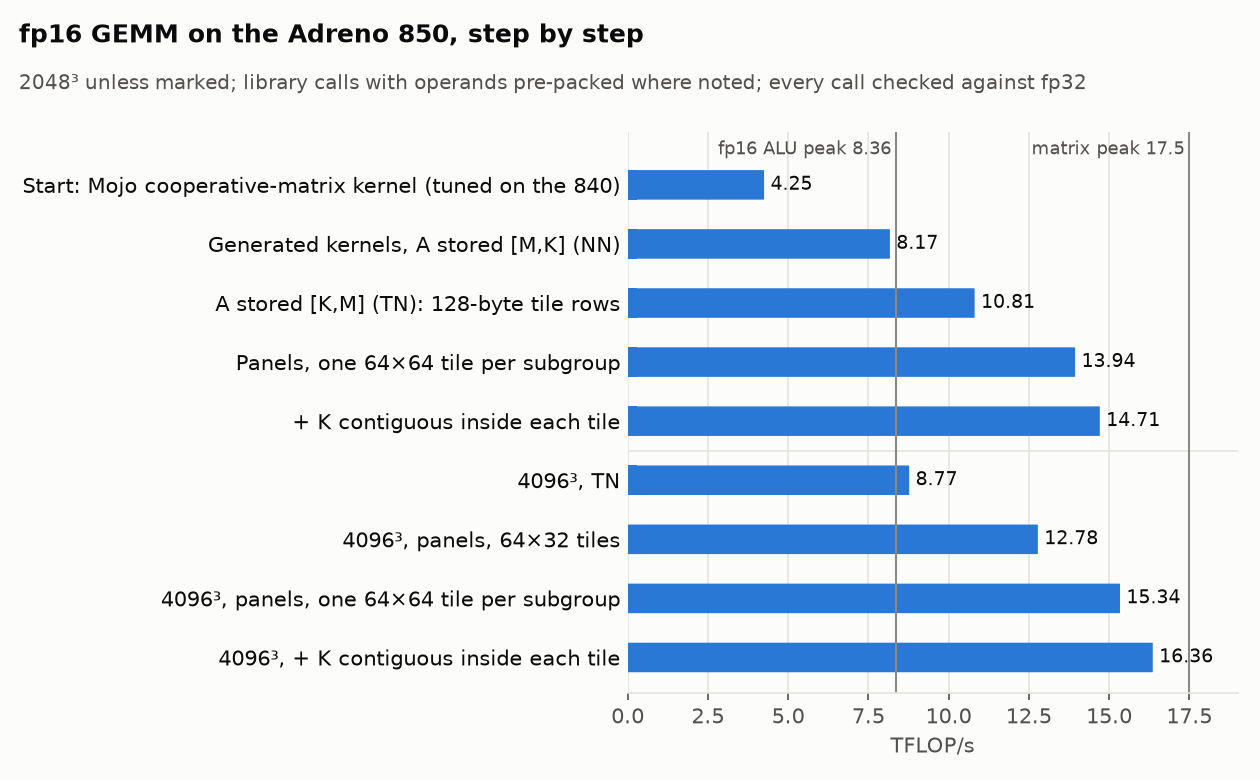
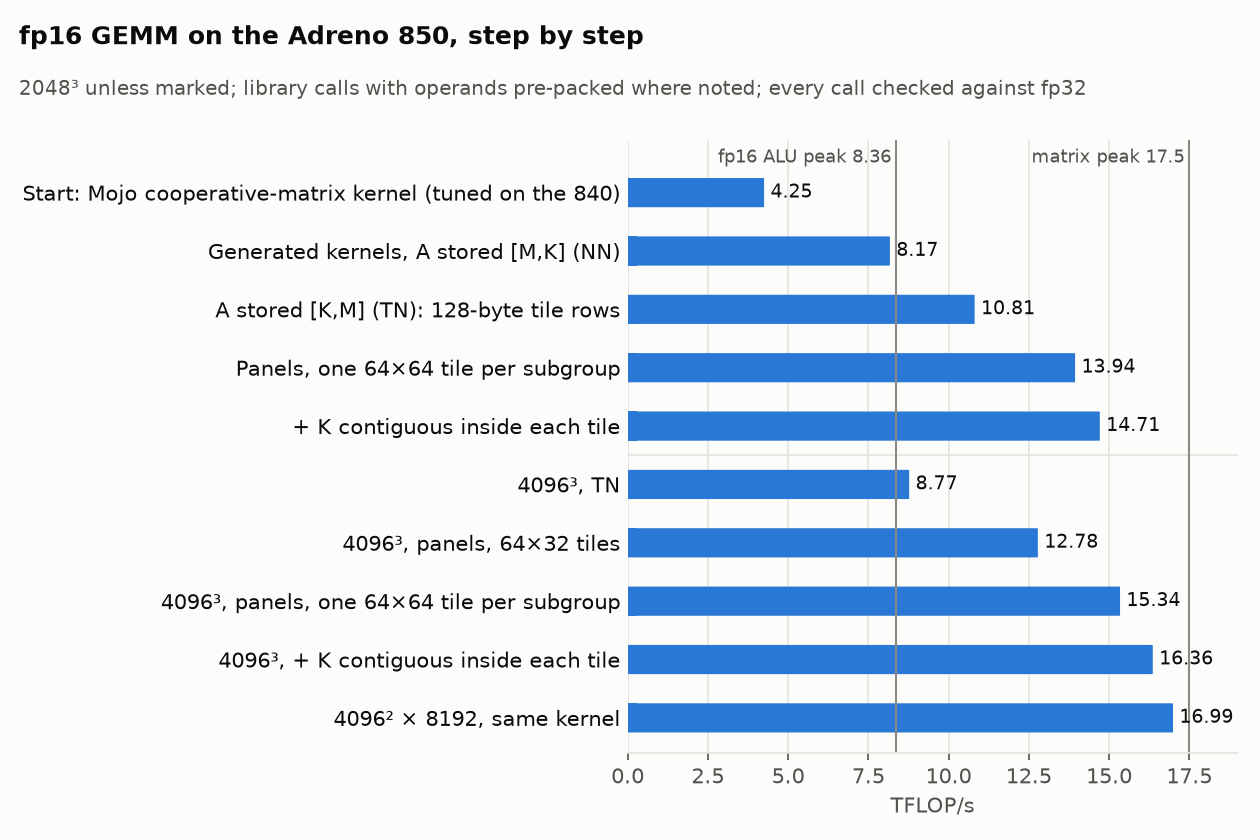
Part 5 post at 97% of peak: Step 10 (the C-store burst), the 840 ALU tuner result
- BLOG-ABLAS.md: title and TL;DR at 97% (17.0 TFLOP/s at 4096x4096x8192; 16.4 at 4096^3, 14.7 at 2048^3);
  new Step 10 (efficiency rises with K, so the inner loop runs at ~97%; the rest at 4096^3 is the store of C;
  K unrolling, bigger workgroups and grouped order slower; persistent workgroups 3x slower on this driver);
  results table with 4096x4096x8192 / 16384; the 840 tuner catalogue (Turnip + bank allocator wins 3 of 4).
- Progress chart ends with 4096x4096x8192 (16.99). README.md blurb at 97%.

diff --git a/ablas/plots.py b/ablas/plots.py
@@ -42,14 +42,15 @@ def progress():
             ("4096³, TN", 8.77),
             ("4096³, panels, 64×32 tiles", 12.78),
             ("4096³, panels, one 64×64 tile per subgroup", 15.34),
-            ("4096³, + K contiguous inside each tile", 16.36)]
-    fig, ax = plt.subplots(figsize=(8.4, 5.2), dpi=150)
+            ("4096³, + K contiguous inside each tile", 16.36),
+            ("4096² × 8192, same kernel", 16.99)]
+    fig, ax = plt.subplots(figsize=(8.4, 5.6), dpi=150)
     y = list(range(len(rows)))[::-1]
     bars(ax, y, [v for _, v in rows], BLUE, 0.5)
     for yi, (_, v) in zip(y, rows):
         ax.text(v + 0.2, yi, f"{v:.2f}", va="center", color=INK, fontsize=9)
     ax.set_yticks(y, [r for r, _ in rows])
-    ax.axhline(3.5, color=GRID, lw=0.8)
+    ax.axhline(4.5, color=GRID, lw=0.8)
     frame(ax, 19, "fp16 GEMM on the Adreno 850, step by step", "2048³ unless marked; library calls with operands pre-packed where noted; every call checked against fp32")
     ax.set_ylim(-0.6, len(rows) - 0.1)
     ref(ax, 8.36, "fp16 ALU peak 8.36", len(rows) - 0.4, "right")

diff --git a/BLOG-ABLAS.md b/BLOG-ABLAS.md
@@ -1,4 +1,4 @@
-# AdrenoBLAS: fp16 GEMM at 93% of a Phone GPU's Matrix Peak
+# AdrenoBLAS: fp16 GEMM at 97% of a Phone GPU's Matrix Peak
 
 *Part 5 of [Bringing PyTorch LLMs to a Mid-Range Adreno GPU with IREE](https://github.com/adityaGoCT/iree-adreno-genai-tuner/blob/main/BLOG.md) (Part 4: [A Native GPU Target, and Llama Prefill on the Matrix Units](BLOG-COOPMAT.md)) · November 21, 2026 · Aditya*
 
@@ -8,7 +8,7 @@ I set out to build a GEMM library for Adreno GPUs in the spirit of cuBLAS and ro
 
 The target was an **Adreno 850** on a Qualcomm Device Cloud reference phone (SM8975, Android 17, 1.45 GHz). I measured its peaks first: 4.41 TFLOP/s for fp32, 8.36 for fp16 on the ALUs, and **17.5 TFLOP/s for fp16 on its matrix hardware**, which Vulkan exposes as cooperative matrices. The best fp16 GEMM I had at the start, a Mojo kernel tuned on the Adreno 840, ran at 4.25 TFLOP/s on it: 24% of that peak.
 
-AdrenoBLAS now runs fp16 GEMM at **14.7 TFLOP/s at 2048³ and 16.4 at 4096³ (93% of the matrix peak)** with operands in its packed tile format, and at 11.6 and 13.7 for operands as given. LLM prefill shapes run at 12.0 to 14.6 TFLOP/s with the weights packed once (13.9 to 16.2 with both operands packed), and all four operand layouts (NN, NT, TN, TT) are covered. Every call is checked against an fp32 reference on the phone. The library is a kernel generator, an on-device tuner, a catalogue builder and a 300-line C runtime.
+AdrenoBLAS now runs fp16 GEMM at **17.0 TFLOP/s at 4096 x 4096 x 8192 (97% of the matrix peak)**, 16.4 at 4096³ (93%) and 14.7 at 2048³ with operands in its packed tile format, and at 11.6 and 13.7 for operands as given. LLM prefill shapes run at 12.0 to 14.6 TFLOP/s with the weights packed once (13.9 to 16.2 with both operands packed), and all four operand layouts (NN, NT, TN, TT) are covered. Every call is checked against an fp32 reference on the phone. The library is a kernel generator, an on-device tuner, a catalogue builder and a 300-line C runtime.
 
 On assembly: on the 850 it can be **read but not written**. The driver's compiled code sits in its pipeline cache and Mesa's disassembler decodes it, except four instruction words that drive the matrix unit. But a checksum rejects any edited code. On an Adreno 840 through Mesa's Turnip driver, hand-written assembly runs and beats both compilers' fp16 GEMM by about 10%; teaching its main trick to Turnip's register allocator recovers 5.0%.
 
@@ -129,6 +129,8 @@ The 840 has no matrix unit: its cooperative-matrix path peaks at 7.35 TFLOP/s, b
 | Turnip's compiler | 3.33 |
 
 The win came from a register-file rule that Turnip's compiler doesn't respect (the stock compiler's code wasn't inspected). A multiply-add whose three register sources sit in the same bank issues at about one third of the rate. There are two banks, split by the parity of the register's scalar index: `.x` and `.z` in one, `.y` and `.w` in the other (for fp16, the low and high halves). Half the multiply-adds in Turnip's fp16 GEMM loops have that form. With the loads stripped out, the hand-written loop runs at 90% of peak against Turnip's 56%. End to end the gain shrinks to 10%, because the kernel then waits on operands. An 8 x 8 register tile at peak needs about 256 bytes per clock per SP, while the texture path delivers about 120 and shared memory about 107. Taught to Turnip's register allocator ([`asm/mesa/turnip-ra-bank.patch`](asm/mesa/turnip-ra-bank.patch)), the rule gives +5.0% geometric mean over 22 GEMM kernels, up to +21%, with every result still correct, once the allocator also accounts for the scheduler.
+
+A small tuner for the 840 (`asm/mesa/tune_alu.py`) then picks, per kernel, between the stock compiler and Turnip with the allocator on or off. Turnip with the allocator wins three of four catalogue slots (fp16 at 2048³: 3.32 TFLOP/s against 3.14 for the best stock kernel); the stock compiler keeps fp32 at 512 x 2048 x 2048 (2.00). Per kernel the allocator ranges from -3.9% to +22.6%, which is why the choice is tuned rather than fixed.
 
 ### The verdict that shaped the library
 
@@ -332,13 +334,27 @@ Four vector loads instead of sixteen scalar ones, and a 16-instruction loop inst
 
 The format also suits PyTorch. In a `Linear` layer, activations [M, K] and weights [N, K] already have K contiguous, so packing them is a plain re-tiling copy with no transpose ([`tile_copy.comp`](ablas/tile_copy.comp)). That copy has to write in runs. Walking K along whole rows scattered 32-byte writes over K/16 tiles and ran at 28 GB/s. Copying 32-row x 64-K blocks writes 256-byte runs, and took the 512 x 2048 x 8192 LLM shape (weights pre-packed) from 10.5 to 13.5 TFLOP/s. Software prefetch, tried once more on the new tiles, was still slower (15.6 vs 16.55).
 
+## Step 10: What's left is the store
+
+Efficiency now rises with K: the same kernel runs at 16.35 TFLOP/s at 4096³, **16.99 at 4096 x 4096 x 8192 (97%)** and 16.82 at 4096 x 4096 x 16384, through the library. So the inner loop runs at about 97% of peak, and what is left at 4096³ is a fixed cost per output tile. Most of it is the store of C: 32 MB, about 0.4 ms of an 8.3 ms run, issued by every workgroup at the same moment, so it overlaps no matrix work.
+
+| idea at 4096³ (tuning, cooled, TFLOP/s) | result |
+| --- | --- |
+| baseline, one 64 x 64 tile per subgroup | **16.67** |
+| K unrolled by 2 / 4 (one 64 x 64 accumulator: no hang, unlike 64 x 32 tiles) | 15.53 / 14.29 |
+| 16-subgroup workgroups, grouped workgroup order | 14.1 at best |
+| persistent workgroups, 2 to 16 output tiles each | 5.4 to 7.5 |
+
+Persistent workgroups are the usual way to hide that store: each workgroup loops over several output tiles, so one tile's store overlaps the next tile's K loop. On this driver they ran 3x slower, although the disassembly ([`ps2_code.dis`](asm/isa/dump/ps2_code.dis)) shows the same 17-instruction inner loop as the fast kernel. That one stays open.
+
 ## Results
 
 Measured through the library with [`ablas_test`](ablas/ablas_test.c), one shape at a time with [`cool_run.sh`](ablas/cool_run.sh), which waits for the GPU to cool to 45 °C with no thermal cap first. Timing uses GPU timestamps, warm-up, then the best of five runs of back-to-back calls. Every call was checked against an fp32 CPU reference on 1,024 sampled elements. The percentage is the share of the measured 17.5 TFLOP/s peak. "Pre-packed" operands went through `ablas_pack_a`/`ablas_pack_b` once, before the timed calls.
 
 | call (layout, M x N x K) | TFLOP/s | of peak |
 | --- | --- | --- |
-| pre-packed, 4096³ | **16.36** | **93%** |
+| pre-packed, 4096 x 4096 x 8192 / 4096 x 4096 x 16384 | **16.99** / 16.82 | **97%** / 96% |
+| pre-packed, 4096³ | 16.36 | 93% |
 | TN / NT / NN input, 4096³ (packed in the call) | 13.71 / 13.56 / 13.76 | 77-79% |
 | pre-packed, 2048³ | 14.71 | 84% |
 | TN / NN / TT / NT input, 2048³ | 11.63 / 9.71 / 9.72 / 10.72 | 55-66% |
@@ -361,6 +377,8 @@ Shapes must be multiples of 64 (M) and 32 (N and K); the packed path needs M, N 
 | software prefetch, grouped order, 1,024-thread workgroups | all slower |
 | a register-only transpose | 15-20 GB/s: scattered 16-byte stores |
 | two 64 x 64 accumulators per subgroup (64 x 128 of C) | GPU hang |
+| persistent workgroups (several output tiles each) | 3x slower on this driver, same inner loop |
+| K unrolled with one 64 x 64 accumulator | correct, but 15.5 / 14.3 vs 16.7 TFLOP/s |
 
 ## Measuring on a phone you rent by the hour
 
@@ -399,7 +417,7 @@ adb shell 'cd /data/local/tmp/ablas && ./cool_run.sh "P P 4096 4096 4096" "T N 2
 
 ## What's next
 
-- **The last 7%.** Pre-packed 4096³ reaches 16.4 of 17.5 TFLOP/s in the library (16.55 in tuning). The loop is now 16 instructions around one multiply; more reuse per load needs two tiles per subgroup or an unrolled K loop, and the driver hangs on both.
+- **The last 3 to 5%.** At 4096³ it is the store of C, issued by every workgroup at once; at K = 8192 the library is at 97%. Persistent workgroups would hide the store but run 3x slower on this driver, so the next step is finding out why: same inner loop, very different speed.
 - **Packing per call.** Operands as given lose 15-20% at 4096³ (13.7 vs 16.4) and more at 2048³ to packing. Having the previous layer's kernel write its output straight into the tile format would remove that for LLM activations.
 - **fp32 accumulation**, through an element-wise conversion that sidesteps the compiler crash.
 - **Edges, batches and epilogues:** shapes that aren't tile multiples, strided-batched GEMM, and bias or activation fused into the store.

diff --git a/README.md b/README.md
@@ -25,9 +25,9 @@ Vulkan SPIR-V target, KHR cooperative matrices from Mojo, and Llama 3.2 1B on a 
 (Adreno 840): a 431-token prompt in 0.63 s on the matrix units instead of 17.7 s, decode at 42 ms/token, and
 with 4-bit weights 13-15 ms/token.
 
-Part 5: **[AdrenoBLAS: fp16 GEMM at 93% of a Phone GPU's Matrix Peak](BLOG-ABLAS.md)**: a cuBLAS-style GEMM
-library for the Adreno 850's matrix units ([`ablas/`](ablas/)): 14.7 TFLOP/s at 2048³ and 16.4 at 4096³ (93%) against a
-measured 17.5 peak, what assembly can and can't do on the 850 and the 840 ([`asm/`](asm/)), and seven driver bugs
+Part 5: **[AdrenoBLAS: fp16 GEMM at 97% of a Phone GPU's Matrix Peak](BLOG-ABLAS.md)**: a cuBLAS-style GEMM
+library for the Adreno 850's matrix units ([`ablas/`](ablas/)): 17.0 TFLOP/s at 4096 x 4096 x 8192 (97%) and 16.4 at
+4096³ against a measured 17.5 peak, what assembly can and can't do on the 850 and the 840 ([`asm/`](asm/)), and seven driver bugs
 with estimated gains if fixed ([`urgent_matter.md`](urgent_matter.md)).
 
 **[Bonsai 2 2B (ternary weights) on the Adreno 840](bonsai/README.md)**: the Mojo kernels of
